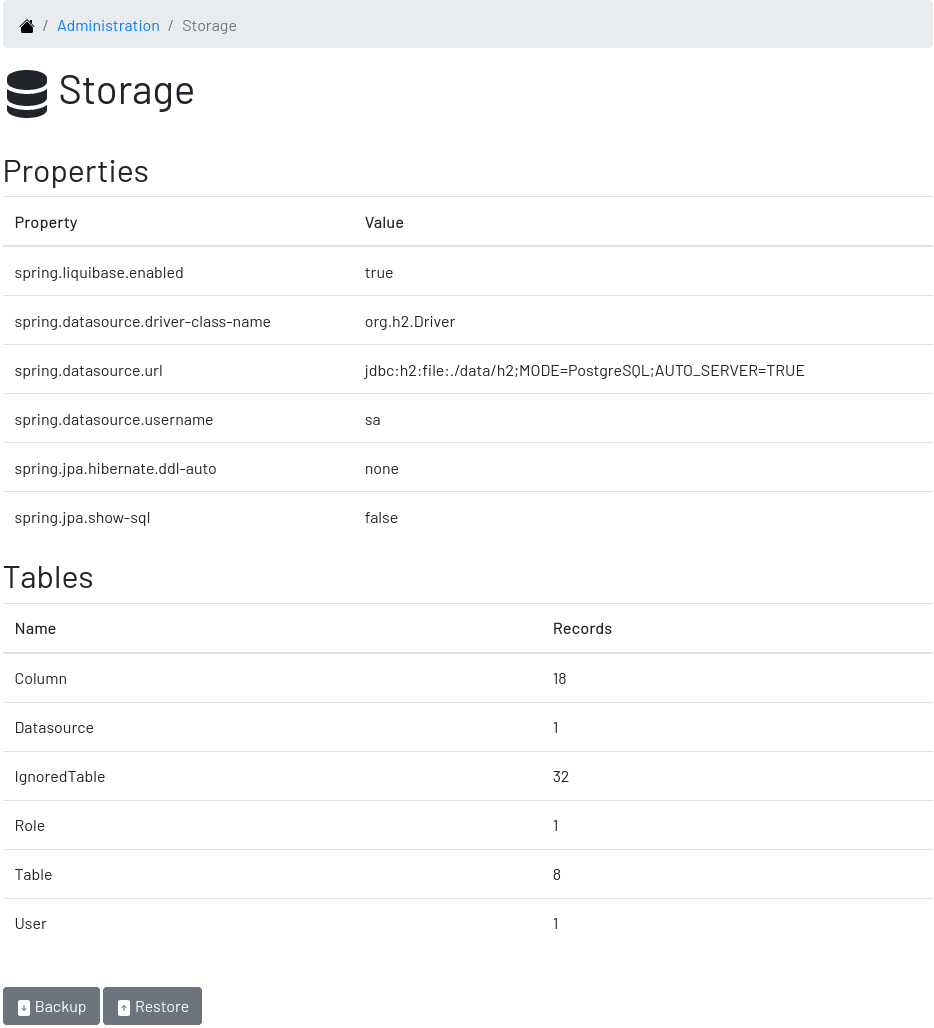
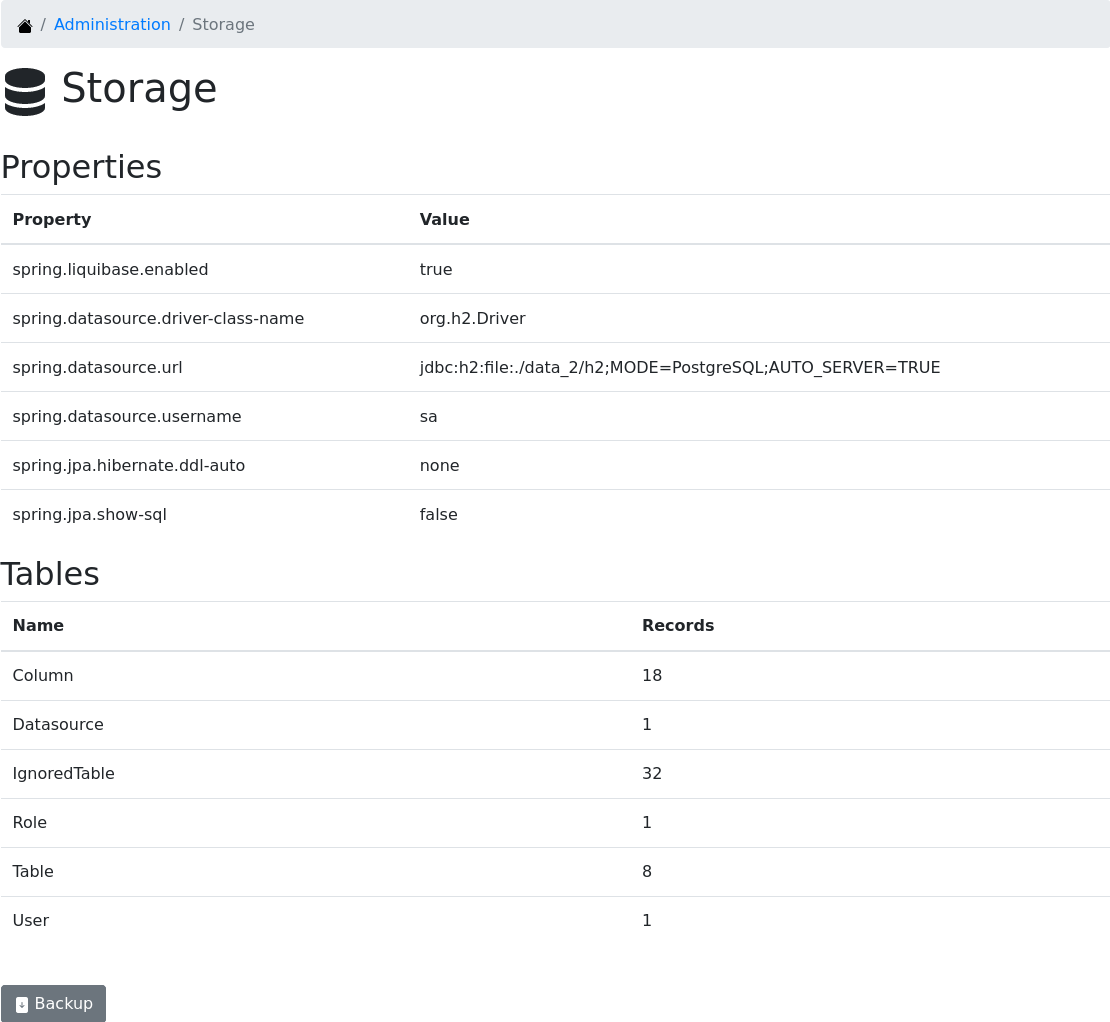
Updated documentation

diff --git a/docs/index.html b/docs/index.html
@@ -697,7 +697,7 @@ $ java -jar digger-1.3.0.jar</pre>
 <p>create a sub-directory named <code>config</code> in the same directory of the application</p>
 </li>
 <li>
-<p>download the files <a href="https://raw.githubusercontent.com/htmfilho/digger/master/config/application.properties"><code>application.properties</code></a> and <a href="https://raw.githubusercontent.com/htmfilho/digger/master/config/application-server.properties"><code>application-server.properties</code></a> and save them in the <code>config</code> folder</p>
+<p>download the files <a href="https://raw.githubusercontent.com/htmfilho/digger/main/config/application.properties"><code>application.properties</code></a> and <a href="https://raw.githubusercontent.com/htmfilho/digger/main/config/application-server.properties"><code>application-server.properties</code></a> and save them in the <code>config</code> folder</p>
 </li>
 <li>
 <p>open the file <code>application.properties</code> and change the following entry from <code>embedded</code> to <code>server</code>:</p>
@@ -794,11 +794,11 @@ $ mvn package</pre>
 <p>If you already have Digger installed, just put the generated jar file in the same folder of the existing installation and remove the old jar. Execute the new jar from that point on.</p>
 </div>
 <div class="paragraph">
-<p>You can also get all subsequent changes whenever they are available by merging the remote master branch into the local master branch:</p>
+<p>You can also get all subsequent changes whenever they are available by merging the remote main branch into the local main branch:</p>
 </div>
 <div class="literalblock">
 <div class="content">
-<pre>$ git pull origin master</pre>
+<pre>$ git pull origin main</pre>
 </div>
 </div>
 <div class="paragraph">
@@ -1065,13 +1065,16 @@ $ psql -d digger
 <div class="sect4">
 <h5 id="admin-user">User&#8217;s Details</h5>
 <div class="paragraph">
-<p>In the <strong>User&#8217;s Details</strong> section, the administration can see all information related to the user and related options such as <strong>Edit</strong> and <strong>Delete</strong>.</p>
+<p>In the <strong>User&#8217;s Details</strong> section, the administration can see all information related to the user and access options such as <strong>Edit</strong> and <strong>Delete</strong>.</p>
 </div>
 <div class="imageblock">
 <div class="content">
 <img src="images/user.png" alt="user">
 </div>
 <div class="title">Figure 6. User&#8217;s Details</div>
+</div>
+<div class="paragraph">
+<p>This feature manages existing users only. It is not possible to create new users here, only through the <a href="#signup">Signing Up</a> page.</p>
 </div>
 </div>
 <div class="sect4">
@@ -1093,7 +1096,7 @@ $ psql -d digger
 </ul>
 </div>
 <div class="paragraph">
-<p>The first user of Digger is assigned to the role of Administrator and all subsequent users are assigned to the role of Reader. Only the administrator has the right to change the role of a user. To do this:</p>
+<p>The first user of Digger is assigned to the role of Administrator and all subsequent users are assigned to the role of Reader. The role take effect once the user is enabled by the administrator. Only the administrator has the right to change the role of a user. To do this:</p>
 </div>
 <div class="olist arabic">
 <ol class="arabic">
@@ -1135,7 +1138,7 @@ $ psql -d digger
 <div class="sect3">
 <h4 id="admin-storage">3.1.3. Storage</h4>
 <div class="paragraph">
-<p>Finally, the administrator needs to get information about the database used by Digger to store the documentation as well as perform backup and restore operations. This section shows:</p>
+<p>The administrator needs to get information about the database used by Digger to store the documentation as well as perform backup operations. This section shows:</p>
 </div>
 <div class="ulist">
 <ul>
@@ -1143,19 +1146,36 @@ $ psql -d digger
 <p>the values of the properties used to connect to the database</p>
 </li>
 <li>
-<p>the tables and the number of records in them</p>
+<p>the tables and their number of records</p>
 </li>
 <li>
 <p>the backup operation, that scans all tables and produce a single SQL file containing an insert statement for each record in those tables</p>
-</li>
-<li>
-<p>the restore operation, that uploads a SQL file generated by the backup operation and runs it to restore the data</p>
 </li>
 </ul>
 </div>
 <div class="imageblock">
 <div class="content">
 <img src="images/storage.png" alt="storage">
+</div>
+</div>
+<div class="sect4">
+<h5 id="_backup">Backup</h5>
+<div class="paragraph">
+<p>The backup operation is useful to upgrade the database or to migrate to another database engine. It does not replace the scheduled daily backup managed by operations behind the scene. A common use case is when users start documenting databases using the default H2 engine and at some point need to migrate to a more robust database like PostgreSQL.</p>
+</div>
+</div>
+<div class="sect4">
+<h5 id="_restore">Restore</h5>
+<div class="paragraph">
+<p>A backup is useless without the capacity of restoring it. Digger also supports restoring a backup as long as the target database is completely empty. The restore feature is only available when the application connects to an empty database, basically in a new Digger installation. In this case, the Restore option appears in the top right menu and brings the user to the restore screen.</p>
+</div>
+<div class="imageblock">
+<div class="content">
+<img src="images/restore.png" alt="restore">
+</div>
+</div>
+<div class="paragraph">
+<p>In this screen, select the backup file, which must be a sql file, and press "Restore". The process loads the backup in a single transaction, which means: or everything or nothing loads. Once the restore is completed, the user is redirected to the homepage, where he or she can sign in using the existing password.</p>
 </div>
 </div>
 </div>
@@ -1881,7 +1901,7 @@ $ git commit -m "Updated the documentation for the release 1.3.0"</pre>
 </div>
 </li>
 <li>
-<p>Create a pull request to merge the release branch with the master branch, review the code to be merged and merge it.</p>
+<p>Create a pull request to merge the release branch with the main branch, review the code to be merged and merge it.</p>
 </li>
 <li>
 <p>Create the next milestone.</p>
@@ -1910,11 +1930,11 @@ $ git commit -m "Updated the documentation for the release 1.3.0"</pre>
 <p>Publish the release.</p>
 </li>
 <li>
-<p>Move to your local master branch and update it:</p>
+<p>Move to your local main branch and update it:</p>
 <div class="literalblock">
 <div class="content">
-<pre>$ git checkout master
-$ git pull origin master</pre>
+<pre>$ git checkout main
+$ git pull origin main</pre>
 </div>
 </div>
 </li>
@@ -2451,7 +2471,7 @@ Copyright &#169; 2019-2022 Hildeberto Mendonca</p>
 <p>This program is distributed in the hope that it will be useful, but WITHOUT ANY WARRANTY; without even the implied warranty of MERCHANTABILITY or FITNESS FOR A PARTICULAR PURPOSE. See the GNU General Public License for more details.</p>
 </div>
 <div class="paragraph">
-<p>A full copy of the GNU General Public License is available at: <a href="https://github.com/htmfilho/digger/blob/master/LICENSE" class="bare">https://github.com/htmfilho/digger/blob/master/LICENSE</a></p>
+<p>A full copy of the GNU General Public License is available at: <a href="https://github.com/htmfilho/digger/blob/main/LICENSE" class="bare">https://github.com/htmfilho/digger/blob/main/LICENSE</a></p>
 </div>
 </div>
 </div>
@@ -2489,7 +2509,7 @@ Copyright &#169; 2019-2022 Hildeberto Mendonca</p>
 <div id="footer">
 <div id="footer-text">
 Version 1.9.1<br>
-Last updated 2022-02-15 22:45:26 -0500
+Last updated 2022-04-08 21:49:45 -0400
 </div>
 </div>
 </body>
